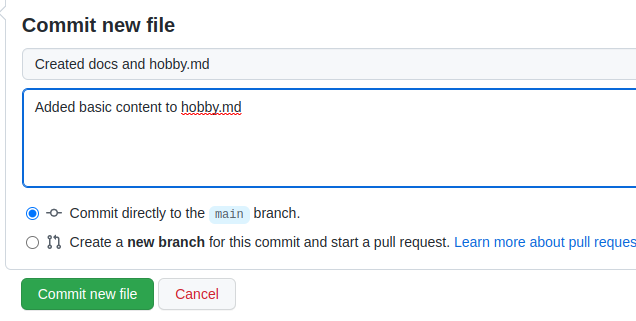
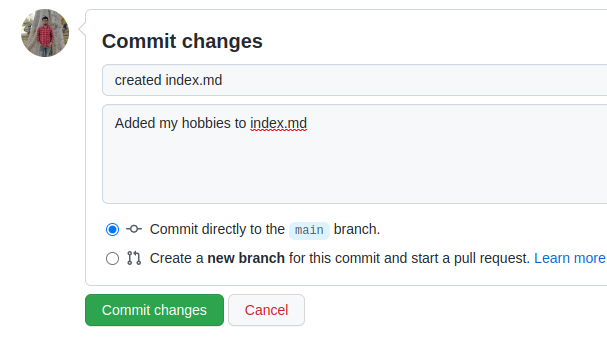
Upades create Github pages in day1

diff --git a/docs/day1.md b/docs/day1.md
@@ -84,7 +84,7 @@ Logout from user `cc3` and login as `hsrai` (replace `hsrai` with your username,
 
 ![Repository Create](/img/add-file.png)
 
-- Now you will find a diloge box where you have to write your file and folder name, now write `docs/` this will create a folder name docs and now write file name as `hobby.md` this will create a file name `hobby.md` under docs folder.
+- Now you will find a diloge box where you have to write your file and folder name, now write `docs/` this will create a folder name docs and now write file name as `hobby.md` this will create a file name `index.md` under docs folder.
 
 ![Repository Create](/img/file-name.png)
 
@@ -97,6 +97,13 @@ Logout from user `cc3` and login as `hsrai` (replace `hsrai` with your username,
 
 ![Repository Create](/img/commit-meessage.png)
 
+- Navigate to `setting` and then find `pages` and click on it.
+
+- Now change two fied under Branch set these field to `main` and `/docs` respectively and click on save button near two these option.
+
+![Repository Create](/img/branch.png)
+
+- After some time navigate to setting --> Pages --> and on top you will see Your site url.
 
 ### Task 5: Get repository on your computer
 
